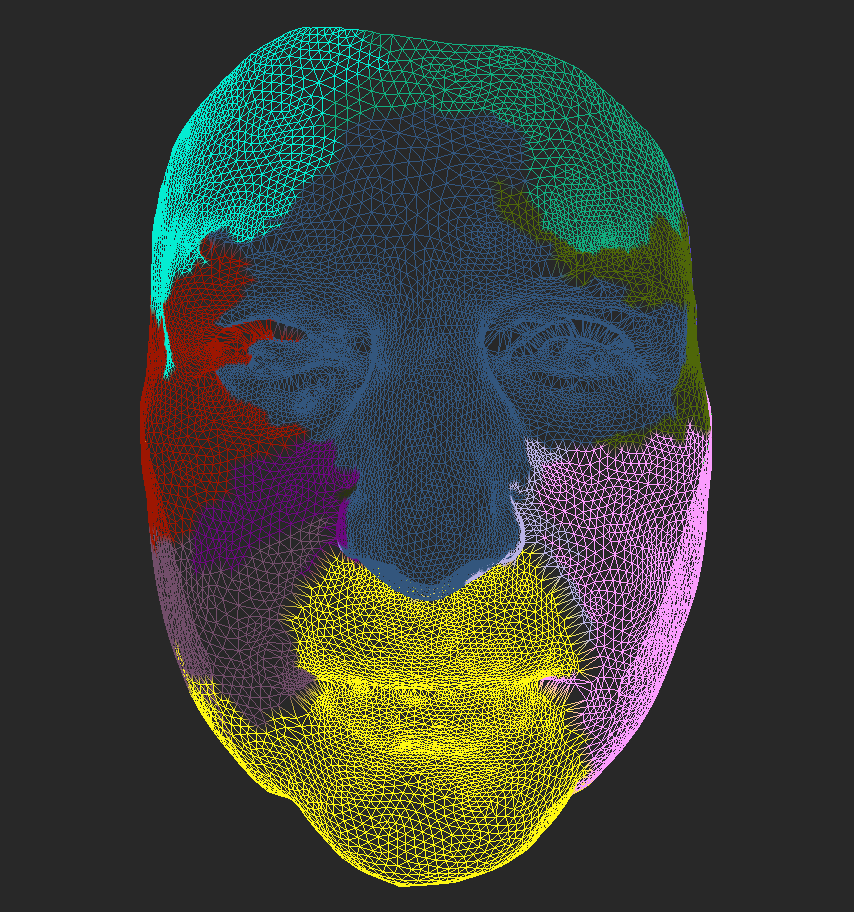
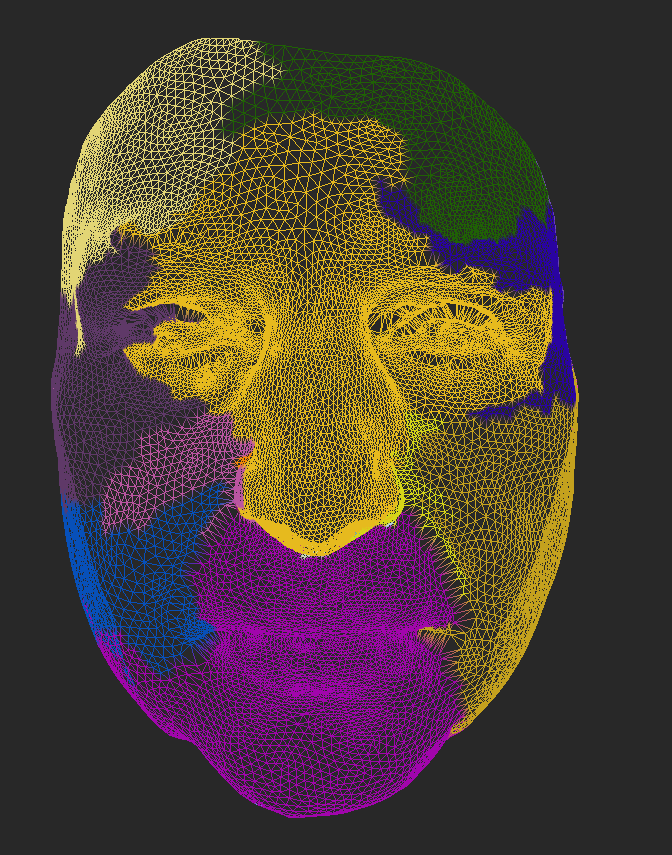
minor fixes related to the oriantation bug

diff --git a/chap02.tex b/chap02.tex
@@ -79,7 +79,7 @@ The clustering object converts the \verb+Arrow+ instances (data points) to \verb
 \item Representative Arrow - an \verb+Arrow+ instance representing the metric value for this cluster
 \item Size - the geometrical area of the cluster
 \item Left Child \& Right Child - \verb+Cluster+ instances out of which this cluster was created
-\item Primary Data Points - a list of all the vertices of the original triangle mesh which belong to this cluster
+\item Primary Data Points - a list of all the original unclustered data points which are tied directly to the underlying mesh and which belong to this cluster
 \end{itemize}
 
 \verb+Cluster+ instances can be sorted according to their level.
@@ -138,38 +138,42 @@ If the desired clustering is not available, the clustering object performs the c
 \caption{Clustering}
 \begin{algorithmic}[1]
 
-\Require ClusterSet c
+\Require dataPoints, initalClusters, MinHeap clusteringCandidates \Comment clusteringCandidates are ordered by clustering error
 \Statex
-\For{all cells cell\textsubscript{i} \textbf{in} dataset}
-	\State c = makeCluster(cell\textsubscript{i});
-    \State set level of c to 0;
-    \State add c to s;
+\For{each point\textsubscript{i} \textbf{in} dataPoints}
+	\State initialCluster = makeCluster(point\textsubscript{i});
+    \State set level of intialCluster to 0;
+    \State add initialCluster to initialClusters;
 \EndFor
 \Statex
-\For{all clusters c\textsubscript{i} in s}
-	\For{all clusters c\textsubscript{j} neighbours of c\textsubscript{i}}
-    	\State e = clusteringError(c\textsubscript{i}, c\textsubscript{j});
-        \State insert pair (c\textsubscript{i}, c\textsubscript{j}) in increasing order of error e in a hash table;
-        \State mark c\textsubscript{i} and c\textsubscript{j} as NOT\_CLUSTERED;
+\For{each cluster\textsubscript{i} in initialClusters}
+	\For{each cluster\textsubscript{j} neighbour of cluster\textsubscript{i}}
+    	\State e = clusteringError(cluster\textsubscript{i}, cluster\textsubscript{j});
+        \State insert (cluster\textsubscript{i}, cluster\textsubscript{j}) into clusteringCandidates
+        \State mark cluster\textsubscript{i} and cluster\textsubscript{j} as NOT\_CLUSTERED;
     \EndFor
 \EndFor
 \Statex
-\State int i = 0;
-\For{all pairs (c\textsubscript{i}, c\textsubscript{j}) in increasing order of error in the hash table}
-	\If{both c\textsubscript{i} and c\textsubscript{j} are NOT\_CLUSTERED}
-    	\State c = mergeClusters(c\textsubscript{i}, c\textsubscript{j});
-        set level of c to l++;
-        mark c\textsubscript{i} and c\textsubscript{j} as CLUSTERED;
-        \For{all neighbors n\textsubscript{i} of c}
-        	\State e = clusteringError(c, n\textsubscript{i});
-            insert pair (c, n\textsubscript{i}) in order in hash table
+\State level = 0;
+\While{clusteringCandidates.Count > 0}
+	\State (cluster\textsubscript{i}, cluster\textsubscript{j}) = clusteringCandidates.ExtractMin();
+    \If{cluster\textsubscript{i} and cluster\textsubscript{j} are both NOT\_CLUSTERED}
+    	\State newCluster = mergeClusters(cluster\textsubscript{i}, cluster\textsubscript{j});
+        \State set level of newCluster to level++;
+		\State mark newCluster as NOT\_CLUSTERED;
+        \State mark cluster\textsubscript{i} and cluster\textsubscript{j} as CLUSTERED;
+        \For{each cluster neighbour of newCluster}
+        	\State e = clusteringError(cluster, newCluster);
+            \State insert (cluster, newCluster) into clusteringCandidates
         \EndFor
     \EndIf
-\EndFor
+\EndWhile
 \Statex
 \Return c as root of tree
 \end{algorithmic}
 \end{algorithm}
+
+It is worth mentioning that when a new cluster is created, it needs to be placed in the clustering space by assigning all neighboring clusters of its two children to be the neighbors of the new cluster as well, except for the children themselves. Also, the neighboring relation has to be made symmetrical by updating the neighbor lists of the surrounding clusters as well.
 
 \subsubsection{Output}
 

diff --git a/chap01.tex b/chap01.tex
@@ -93,7 +93,7 @@ We will now describe our clustering method.
 \subsubsection{Clustering Algorithm}
 \label{sec:analysis_clustering_algorithm}
 
-The preference of hierarchical clustering over other mentioned clustering methods is justified by its simplicity and also the fact that a dendrogram is created during this clustering. This will allow us to quickly react to user requests for a certain number of clusters for given clustering parameters. Hierarchical clustering will also make our approach user-friendly. We will, however, introduce one optional condition to which clusters can be merged together. Since our vector fields are placed on the surface of a triangle mesh, a vector can either point "inside" or "outside" depending on how we name the surrounding half-spaces. Because this might be important to the user, our clustering candidates have to not only be neighbors but also have the same orientation. The user will be able to disable this condition because the resulting dendrogram is not a tree but a forest. This may result in undesirable artifacts in the visualization because for certain cluster counts, the clustering will not cover the whole data set.
+The preference of hierarchical clustering over other mentioned clustering methods is justified by its simplicity and also the fact that a dendrogram is created during this clustering. This will allow us to quickly react to user requests for a certain number of clusters for given clustering parameters. Hierarchical clustering will also make our approach user-friendly. We will, however, introduce one optional condition to which clusters can be merged together. Since our vector fields are placed on the surface of a triangle mesh, a vector can either point "inwards" or "outwards" where the normal vector of the mesh surface is said to point "outwards". Because this might be important to the user, our clustering candidates have to not only be neighbors but also have the same orientation. The user will be able to disable this condition because the resulting dendrogram is not a tree but a forest. This may result in undesirable artifacts in the visualization because for certain cluster counts, the clustering will not cover the whole data set.
 
 We are not going to use the GPU-based approach to clustering computations from \citet{Peng12} because it does not allow the user to view the final visualization from varying angles in real time. While one of our motivations is to have good visualizations for publishing in scientific papers, the possibility of viewing the visualizations in real time will allow the user find the ideal viewing angle more easily since it might not be known prior to the visualization process. We will store our vector field in memory and compute the clustering on the whole field in one process (similar to \citet{Telea99}).
 
